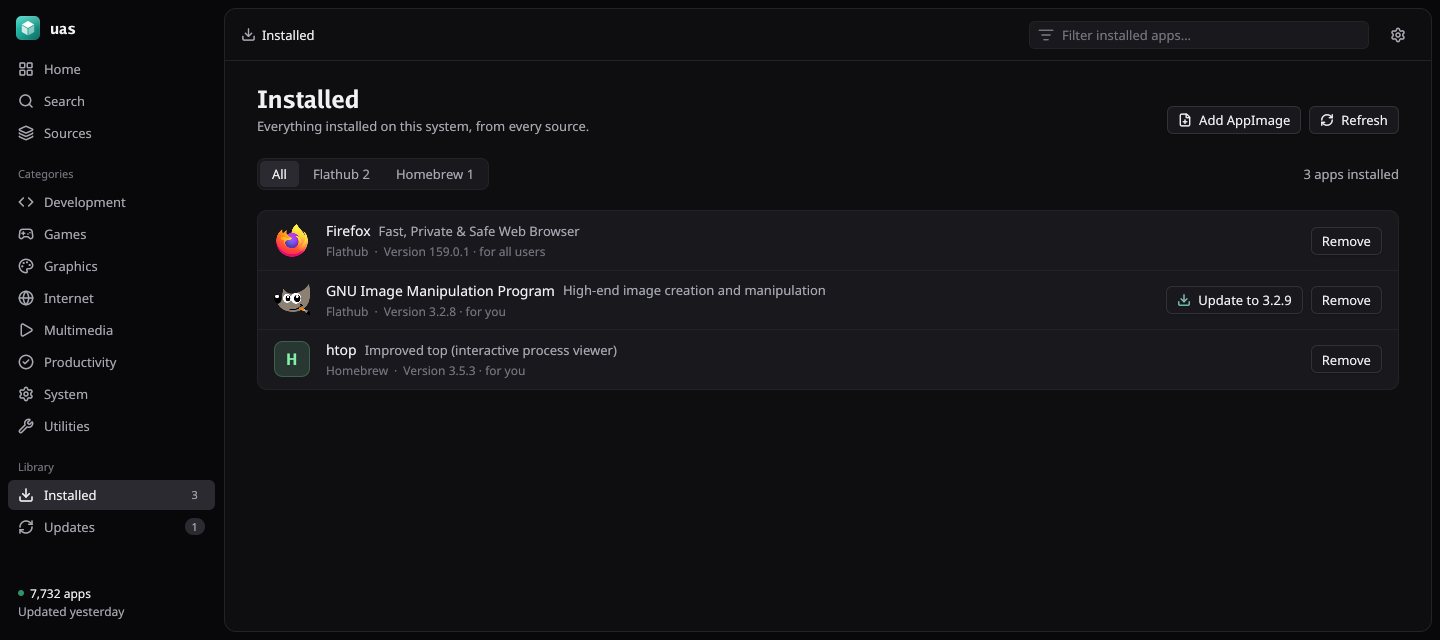
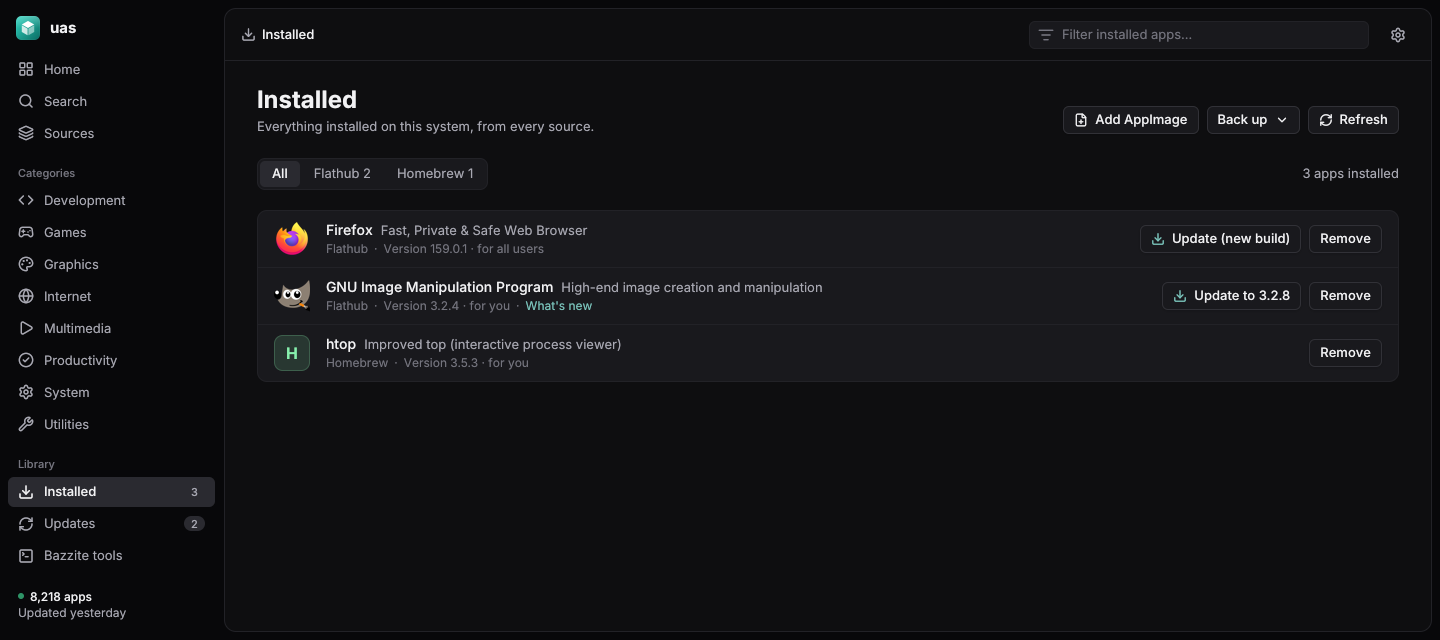
docs: refresh the screenshots, with What's new and Updates

diff --git a/internal/gui/shots_test.go b/internal/gui/shots_test.go
@@ -36,8 +36,8 @@ func TestShots(t *testing.T) {
 	light, dark := Themes()
 	fp := &fakeBackend{src: catalog.SourceFlathub, installed: []backend.InstalledApp{
 		{Source: catalog.SourceFlathub, Ref: "app/org.mozilla.firefox/x86_64/stable", AppID: "org.mozilla.firefox", Name: "Firefox", Version: "159.0.1", Scope: "system"},
-		{Source: catalog.SourceFlathub, Ref: "app/org.gimp.GIMP/x86_64/stable", AppID: "org.gimp.GIMP", Name: "GIMP", Version: "3.2.6", Scope: "user"},
-	}, available: []backend.AvailableUpdate{{Ref: "app/org.gimp.GIMP/x86_64/stable", Scope: "user", Version: "3.2.9"},
+		{Source: catalog.SourceFlathub, Ref: "app/org.gimp.GIMP/x86_64/stable", AppID: "org.gimp.GIMP", Name: "GIMP", Version: "3.2.4", Scope: "user"},
+	}, available: []backend.AvailableUpdate{{Ref: "app/org.gimp.GIMP/x86_64/stable", Scope: "user", Version: "3.2.8"},
 		// A rebuild of the installed version.
 		{Ref: "app/org.mozilla.firefox/x86_64/stable", Scope: "system", Version: "159.0.1"}}}
 	hb := &fakeBackend{src: catalog.SourceHomebrew, installed: []backend.InstalledApp{
@@ -150,7 +150,7 @@ func shotRestorePlan() *restorePlan {
 		}}
 }
 
-// shotWhatsNew is the "What's new" dialog for an app's catalog notes, as if the oldest one were installed.
+// shotWhatsNew is the "What's new" dialog of the fake GIMP update (3.2.4 to 3.2.8), as on the Updates page.
 func shotWhatsNew(a *App, id string) *whatsNew {
 	db, err := a.catalog(context.Background())
 	if err != nil {
@@ -160,10 +160,10 @@ func shotWhatsNew(a *App, id string) *whatsNew {
 	if err != nil {
 		return nil
 	}
-	cs, _ := changelogFor(app, catalog.Listing{})
-	if len(cs) < 2 {
-		return nil
+	w := updateNotes(app, backend.InstalledApp{Source: catalog.SourceFlathub, Ref: "app/" + id + "/x86_64/stable",
+		AppID: id, Version: "3.2.4"}, "3.2.8")
+	if w != nil {
+		w.update = func() {}
 	}
-	return &whatsNew{name: app.Name, changes: newerChanges(cs, cs[len(cs)-1].Version), version: cs[0].Version,
-		installed: cs[len(cs)-1].Version, update: func() {}}
+	return w
 }

diff --git a/README.md b/README.md
@@ -54,12 +54,20 @@ COPR packages, searched and installed from one place.
     <td align="center">Search</td>
   </tr>
   <tr>
-    <td width="50%"><img src="docs/screenshots/installed.png" alt="Installed apps from Flathub and Homebrew, with an available update"></td>
+    <td width="50%"><img src="docs/screenshots/installed.png" alt="Installed apps from Flathub and Homebrew, with available updates"></td>
     <td width="50%"><img src="docs/screenshots/home-light.png" alt="The home page in the light theme"></td>
   </tr>
   <tr>
     <td align="center">Installed</td>
     <td align="center">Light theme</td>
+  </tr>
+  <tr>
+    <td width="50%"><img src="docs/screenshots/whats-new.png" alt="An update's What's new: the release notes since the installed version"></td>
+    <td width="50%"><img src="docs/screenshots/updates.png" alt="Updates, with a What's new link, a new build of the same version, and when updates were last checked"></td>
+  </tr>
+  <tr>
+    <td align="center">What's new</td>
+    <td align="center">Updates</td>
   </tr>
 </table>
 
